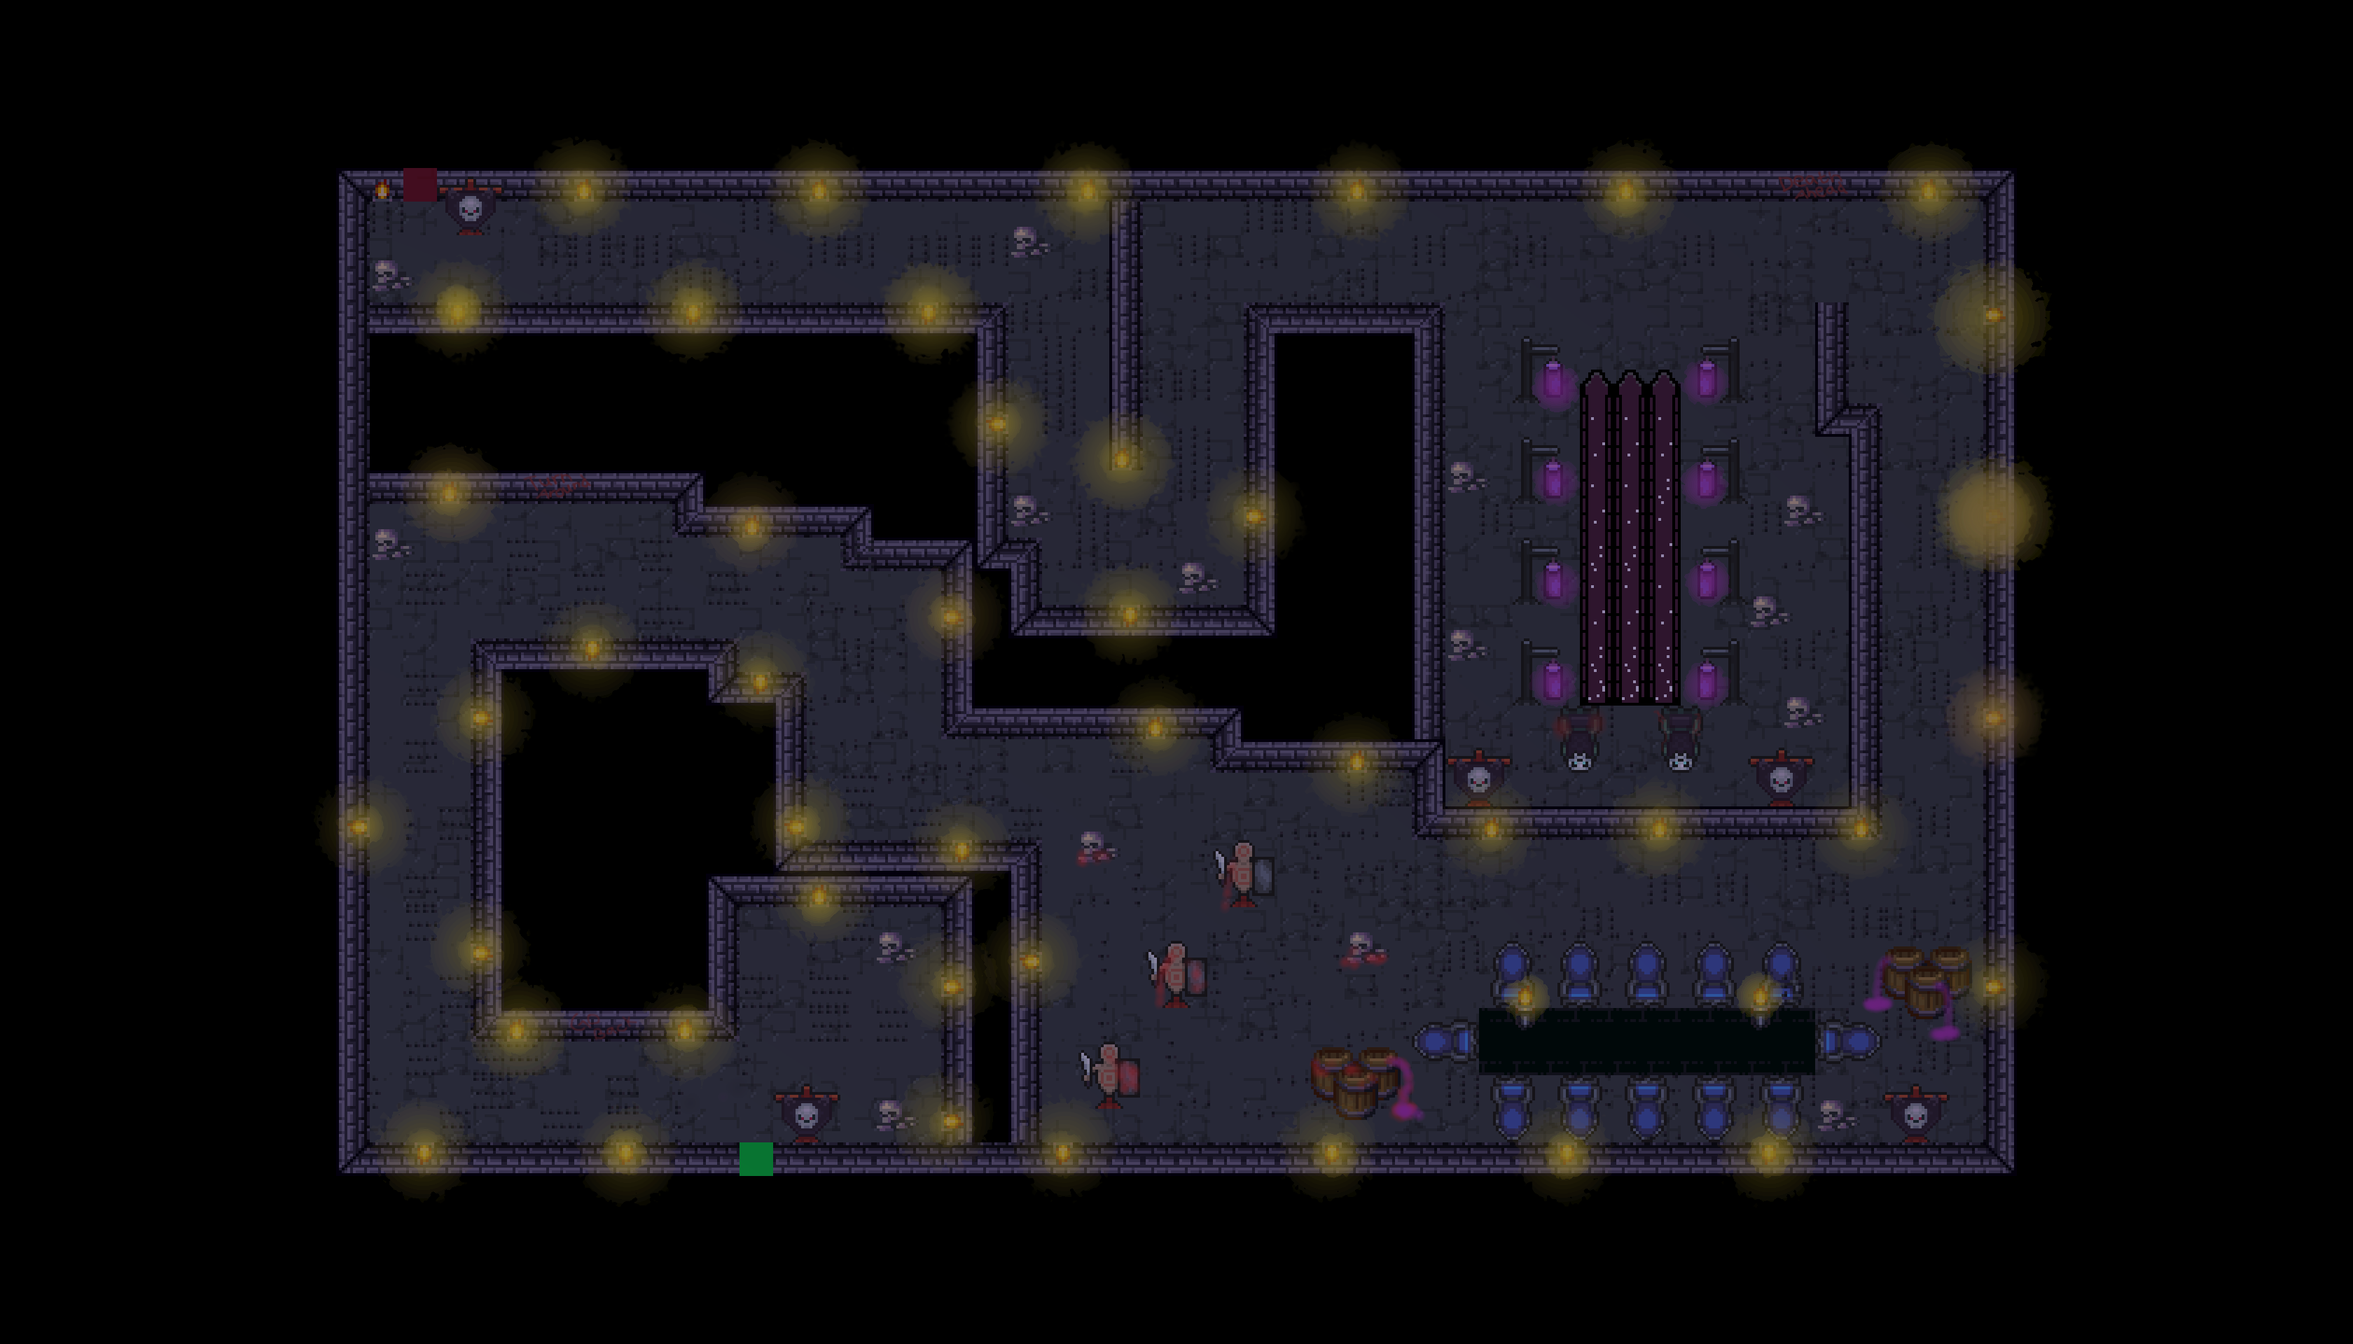
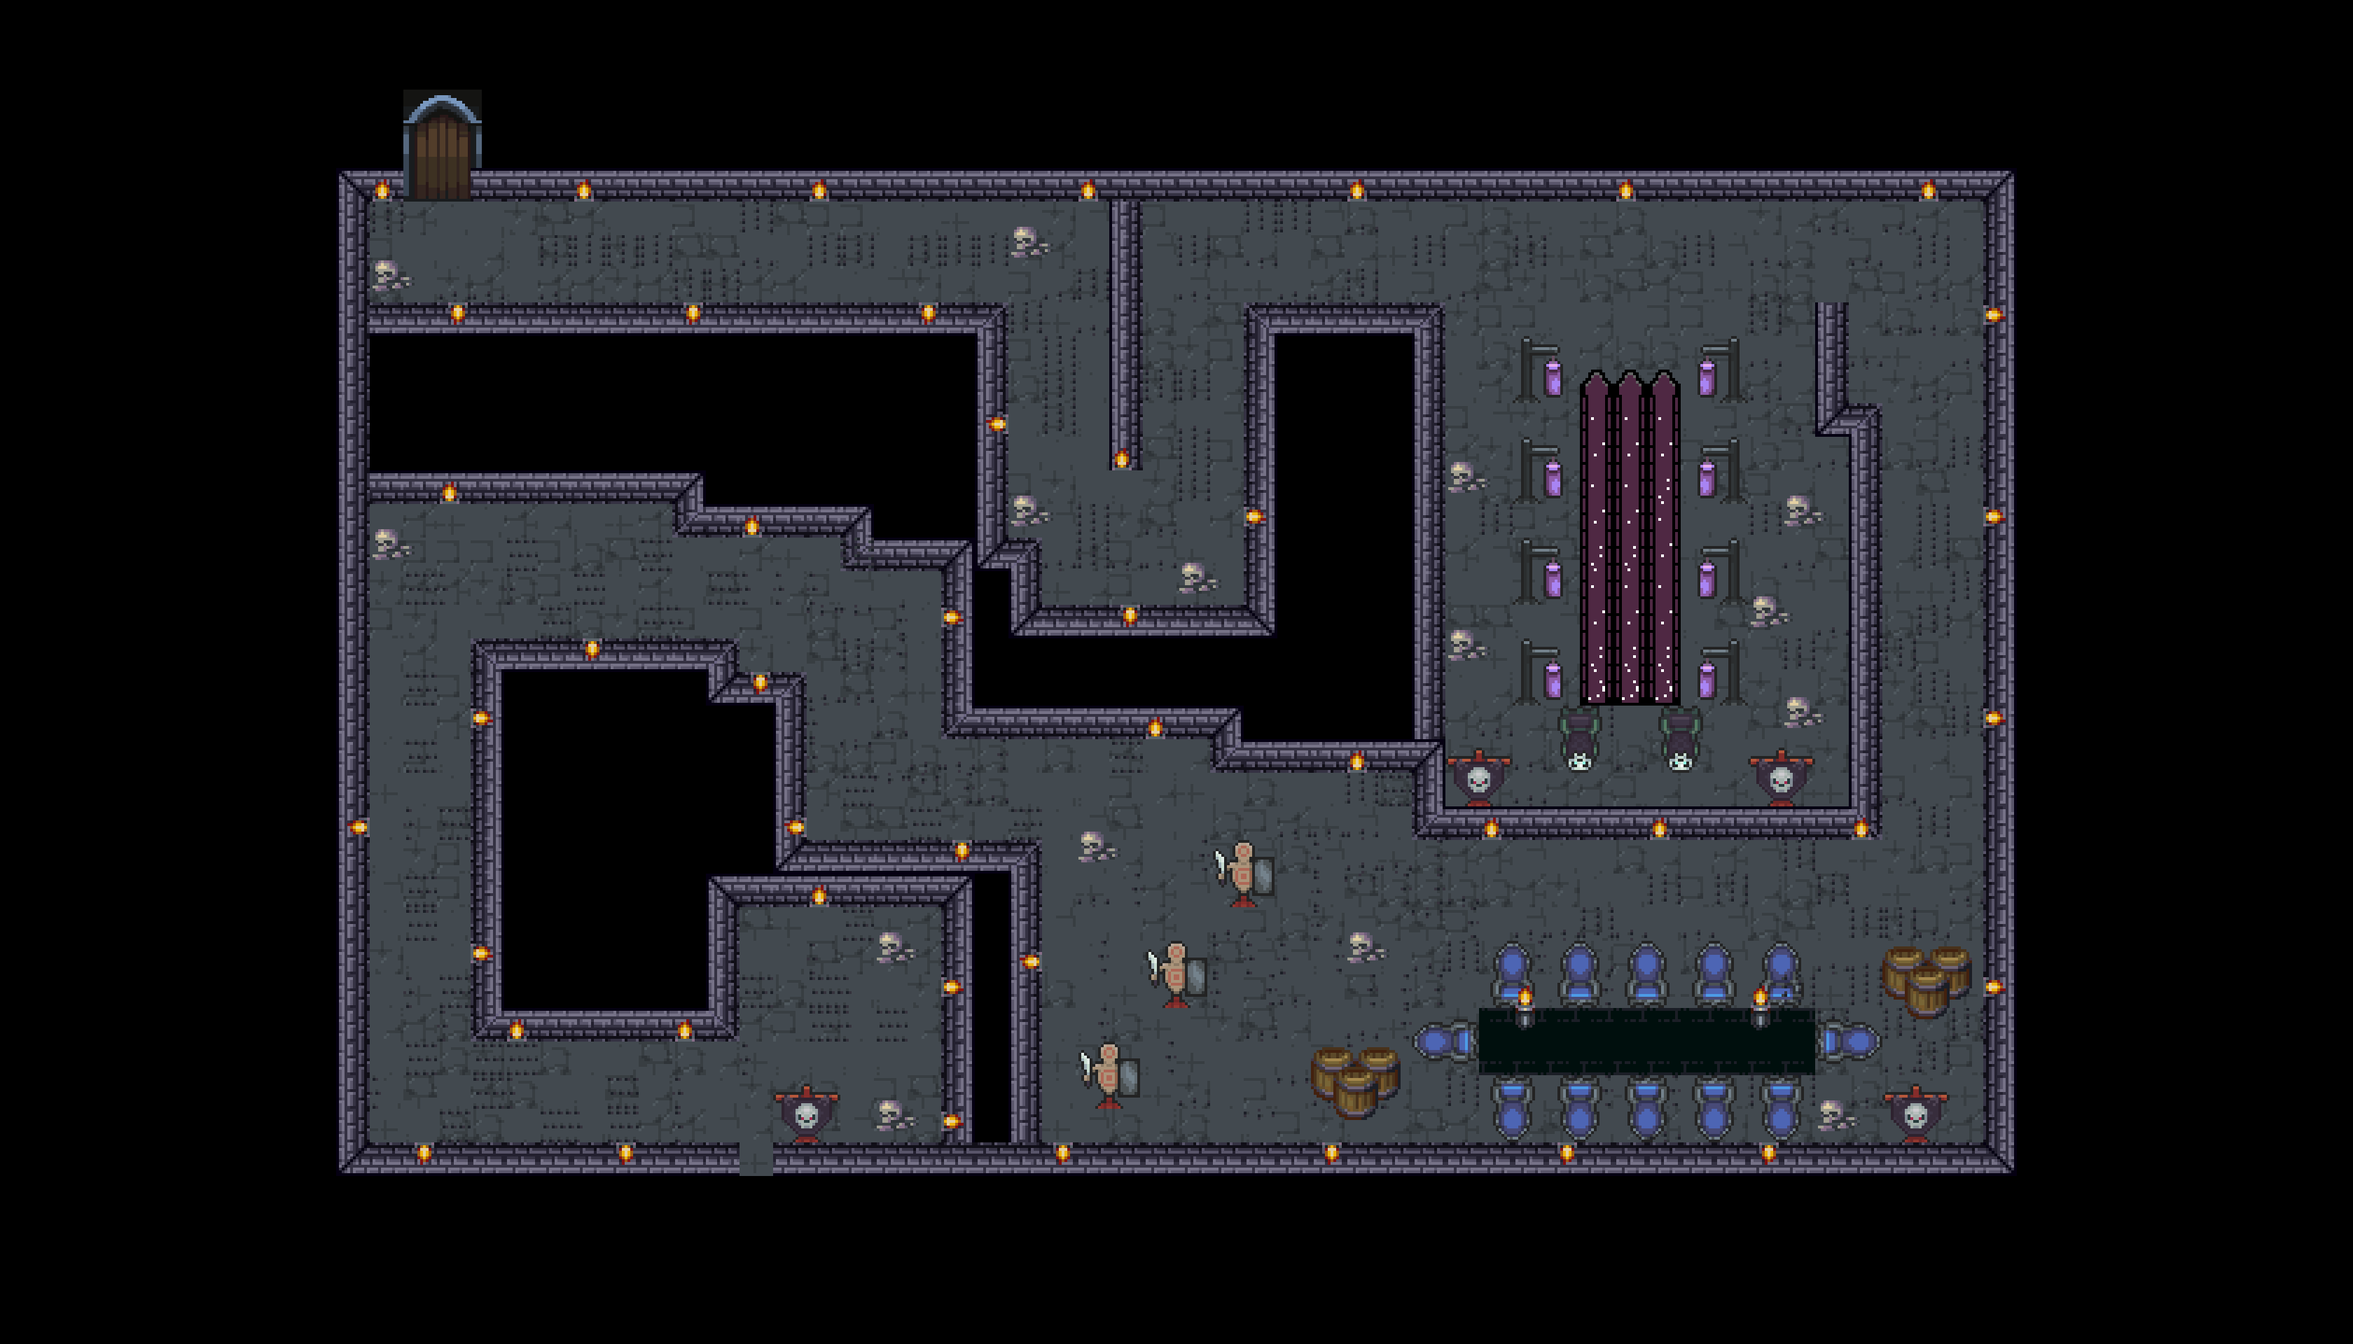
Advance from level to level
Added some lines of code that makes it possible for our character to walk into a door, fade the screen black then fade back again to reveal the new map. Also edited the first map so that there is in fact a door to go through at the end. Added a new js file called "doors" that stores the array of the doors collision block to make the new lines of code work.

diff --git a/data/doors.js b/data/doors.js
@@ -1,0 +1,40 @@
+const doorsData = [0, 0, 0, 0, 0, 0, 0, 0, 0, 0, 0, 0, 0, 0, 0, 0, 0, 0, 0, 0, 0, 0, 0, 0, 0, 0, 0, 0, 0, 0, 0, 0, 0, 0, 0, 0, 0, 0, 0, 0, 0, 0, 0, 0, 0, 0, 0, 0, 0, 0, 0, 0, 0, 0, 0, 0, 0, 0, 0, 0, 0, 0, 0, 0, 0, 0, 0, 0, 0, 0,
+   0, 0, 0, 0, 0, 0, 0, 0, 0, 0, 0, 0, 0, 0, 0, 0, 0, 0, 0, 0, 0, 0, 0, 0, 0, 0, 0, 0, 0, 0, 0, 0, 0, 0, 0, 0, 0, 0, 0, 0, 0, 0, 0, 0, 0, 0, 0, 0, 0, 0, 0, 0, 0, 0, 0, 0, 0, 0, 0, 0, 0, 0, 0, 0, 0, 0, 0, 0, 0, 0,
+   0, 0, 0, 0, 0, 0, 0, 0, 0, 0, 0, 0, 0, 0, 0, 0, 0, 0, 0, 0, 0, 0, 0, 0, 0, 0, 0, 0, 0, 0, 0, 0, 0, 0, 0, 0, 0, 0, 0, 0, 0, 0, 0, 0, 0, 0, 0, 0, 0, 0, 0, 0, 0, 0, 0, 0, 0, 0, 0, 0, 0, 0, 0, 0, 0, 0, 0, 0, 0, 0,
+   0, 0, 0, 0, 0, 0, 0, 0, 0, 0, 0, 0, 1, 1, 0, 0, 0, 0, 0, 0, 0, 0, 0, 0, 0, 0, 0, 0, 0, 0, 0, 0, 0, 0, 0, 0, 0, 0, 0, 0, 0, 0, 0, 0, 0, 0, 0, 0, 0, 0, 0, 0, 0, 0, 0, 0, 0, 0, 0, 0, 0, 0, 0, 0, 0, 0, 0, 0, 0, 0,
+   0, 0, 0, 0, 0, 0, 0, 0, 0, 0, 0, 0, 1, 1, 0, 0, 0, 0, 0, 0, 0, 0, 0, 0, 0, 0, 0, 0, 0, 0, 0, 0, 0, 0, 0, 0, 0, 0, 0, 0, 0, 0, 0, 0, 0, 0, 0, 0, 0, 0, 0, 0, 0, 0, 0, 0, 0, 0, 0, 0, 0, 0, 0, 0, 0, 0, 0, 0, 0, 0,
+   0, 0, 0, 0, 0, 0, 0, 0, 0, 0, 0, 0, 0, 0, 0, 0, 0, 0, 0, 0, 0, 0, 0, 0, 0, 0, 0, 0, 0, 0, 0, 0, 0, 0, 0, 0, 0, 0, 0, 0, 0, 0, 0, 0, 0, 0, 0, 0, 0, 0, 0, 0, 0, 0, 0, 0, 0, 0, 0, 0, 0, 0, 0, 0, 0, 0, 0, 0, 0, 0,
+   0, 0, 0, 0, 0, 0, 0, 0, 0, 0, 0, 0, 0, 0, 0, 0, 0, 0, 0, 0, 0, 0, 0, 0, 0, 0, 0, 0, 0, 0, 0, 0, 0, 0, 0, 0, 0, 0, 0, 0, 0, 0, 0, 0, 0, 0, 0, 0, 0, 0, 0, 0, 0, 0, 0, 0, 0, 0, 0, 0, 0, 0, 0, 0, 0, 0, 0, 0, 0, 0,
+   0, 0, 0, 0, 0, 0, 0, 0, 0, 0, 0, 0, 0, 0, 0, 0, 0, 0, 0, 0, 0, 0, 0, 0, 0, 0, 0, 0, 0, 0, 0, 0, 0, 0, 0, 0, 0, 0, 0, 0, 0, 0, 0, 0, 0, 0, 0, 0, 0, 0, 0, 0, 0, 0, 0, 0, 0, 0, 0, 0, 0, 0, 0, 0, 0, 0, 0, 0, 0, 0,
+   0, 0, 0, 0, 0, 0, 0, 0, 0, 0, 0, 0, 0, 0, 0, 0, 0, 0, 0, 0, 0, 0, 0, 0, 0, 0, 0, 0, 0, 0, 0, 0, 0, 0, 0, 0, 0, 0, 0, 0, 0, 0, 0, 0, 0, 0, 0, 0, 0, 0, 0, 0, 0, 0, 0, 0, 0, 0, 0, 0, 0, 0, 0, 0, 0, 0, 0, 0, 0, 0,
+   0, 0, 0, 0, 0, 0, 0, 0, 0, 0, 0, 0, 0, 0, 0, 0, 0, 0, 0, 0, 0, 0, 0, 0, 0, 0, 0, 0, 0, 0, 0, 0, 0, 0, 0, 0, 0, 0, 0, 0, 0, 0, 0, 0, 0, 0, 0, 0, 0, 0, 0, 0, 0, 0, 0, 0, 0, 0, 0, 0, 0, 0, 0, 0, 0, 0, 0, 0, 0, 0,
+   0, 0, 0, 0, 0, 0, 0, 0, 0, 0, 0, 0, 0, 0, 0, 0, 0, 0, 0, 0, 0, 0, 0, 0, 0, 0, 0, 0, 0, 0, 0, 0, 0, 0, 0, 0, 0, 0, 0, 0, 0, 0, 0, 0, 0, 0, 0, 0, 0, 0, 0, 0, 0, 0, 0, 0, 0, 0, 0, 0, 0, 0, 0, 0, 0, 0, 0, 0, 0, 0,
+   0, 0, 0, 0, 0, 0, 0, 0, 0, 0, 0, 0, 0, 0, 0, 0, 0, 0, 0, 0, 0, 0, 0, 0, 0, 0, 0, 0, 0, 0, 0, 0, 0, 0, 0, 0, 0, 0, 0, 0, 0, 0, 0, 0, 0, 0, 0, 0, 0, 0, 0, 0, 0, 0, 0, 0, 0, 0, 0, 0, 0, 0, 0, 0, 0, 0, 0, 0, 0, 0,
+   0, 0, 0, 0, 0, 0, 0, 0, 0, 0, 0, 0, 0, 0, 0, 0, 0, 0, 0, 0, 0, 0, 0, 0, 0, 0, 0, 0, 0, 0, 0, 0, 0, 0, 0, 0, 0, 0, 0, 0, 0, 0, 0, 0, 0, 0, 0, 0, 0, 0, 0, 0, 0, 0, 0, 0, 0, 0, 0, 0, 0, 0, 0, 0, 0, 0, 0, 0, 0, 0,
+   0, 0, 0, 0, 0, 0, 0, 0, 0, 0, 0, 0, 0, 0, 0, 0, 0, 0, 0, 0, 0, 0, 0, 0, 0, 0, 0, 0, 0, 0, 0, 0, 0, 0, 0, 0, 0, 0, 0, 0, 0, 0, 0, 0, 0, 0, 0, 0, 0, 0, 0, 0, 0, 0, 0, 0, 0, 0, 0, 0, 0, 0, 0, 0, 0, 0, 0, 0, 0, 0,
+   0, 0, 0, 0, 0, 0, 0, 0, 0, 0, 0, 0, 0, 0, 0, 0, 0, 0, 0, 0, 0, 0, 0, 0, 0, 0, 0, 0, 0, 0, 0, 0, 0, 0, 0, 0, 0, 0, 0, 0, 0, 0, 0, 0, 0, 0, 0, 0, 0, 0, 0, 0, 0, 0, 0, 0, 0, 0, 0, 0, 0, 0, 0, 0, 0, 0, 0, 0, 0, 0,
+   0, 0, 0, 0, 0, 0, 0, 0, 0, 0, 0, 0, 0, 0, 0, 0, 0, 0, 0, 0, 0, 0, 0, 0, 0, 0, 0, 0, 0, 0, 0, 0, 0, 0, 0, 0, 0, 0, 0, 0, 0, 0, 0, 0, 0, 0, 0, 0, 0, 0, 0, 0, 0, 0, 0, 0, 0, 0, 0, 0, 0, 0, 0, 0, 0, 0, 0, 0, 0, 0,
+   0, 0, 0, 0, 0, 0, 0, 0, 0, 0, 0, 0, 0, 0, 0, 0, 0, 0, 0, 0, 0, 0, 0, 0, 0, 0, 0, 0, 0, 0, 0, 0, 0, 0, 0, 0, 0, 0, 0, 0, 0, 0, 0, 0, 0, 0, 0, 0, 0, 0, 0, 0, 0, 0, 0, 0, 0, 0, 0, 0, 0, 0, 0, 0, 0, 0, 0, 0, 0, 0,
+   0, 0, 0, 0, 0, 0, 0, 0, 0, 0, 0, 0, 0, 0, 0, 0, 0, 0, 0, 0, 0, 0, 0, 0, 0, 0, 0, 0, 0, 0, 0, 0, 0, 0, 0, 0, 0, 0, 0, 0, 0, 0, 0, 0, 0, 0, 0, 0, 0, 0, 0, 0, 0, 0, 0, 0, 0, 0, 0, 0, 0, 0, 0, 0, 0, 0, 0, 0, 0, 0,
+   0, 0, 0, 0, 0, 0, 0, 0, 0, 0, 0, 0, 0, 0, 0, 0, 0, 0, 0, 0, 0, 0, 0, 0, 0, 0, 0, 0, 0, 0, 0, 0, 0, 0, 0, 0, 0, 0, 0, 0, 0, 0, 0, 0, 0, 0, 0, 0, 0, 0, 0, 0, 0, 0, 0, 0, 0, 0, 0, 0, 0, 0, 0, 0, 0, 0, 0, 0, 0, 0,
+   0, 0, 0, 0, 0, 0, 0, 0, 0, 0, 0, 0, 0, 0, 0, 0, 0, 0, 0, 0, 0, 0, 0, 0, 0, 0, 0, 0, 0, 0, 0, 0, 0, 0, 0, 0, 0, 0, 0, 0, 0, 0, 0, 0, 0, 0, 0, 0, 0, 0, 0, 0, 0, 0, 0, 0, 0, 0, 0, 0, 0, 0, 0, 0, 0, 0, 0, 0, 0, 0,
+   0, 0, 0, 0, 0, 0, 0, 0, 0, 0, 0, 0, 0, 0, 0, 0, 0, 0, 0, 0, 0, 0, 0, 0, 0, 0, 0, 0, 0, 0, 0, 0, 0, 0, 0, 0, 0, 0, 0, 0, 0, 0, 0, 0, 0, 0, 0, 0, 0, 0, 0, 0, 0, 0, 0, 0, 0, 0, 0, 0, 0, 0, 0, 0, 0, 0, 0, 0, 0, 0,
+   0, 0, 0, 0, 0, 0, 0, 0, 0, 0, 0, 0, 0, 0, 0, 0, 0, 0, 0, 0, 0, 0, 0, 0, 0, 0, 0, 0, 0, 0, 0, 0, 0, 0, 0, 0, 0, 0, 0, 0, 0, 0, 0, 0, 0, 0, 0, 0, 0, 0, 0, 0, 0, 0, 0, 0, 0, 0, 0, 0, 0, 0, 0, 0, 0, 0, 0, 0, 0, 0,
+   0, 0, 0, 0, 0, 0, 0, 0, 0, 0, 0, 0, 0, 0, 0, 0, 0, 0, 0, 0, 0, 0, 0, 0, 0, 0, 0, 0, 0, 0, 0, 0, 0, 0, 0, 0, 0, 0, 0, 0, 0, 0, 0, 0, 0, 0, 0, 0, 0, 0, 0, 0, 0, 0, 0, 0, 0, 0, 0, 0, 0, 0, 0, 0, 0, 0, 0, 0, 0, 0,
+   0, 0, 0, 0, 0, 0, 0, 0, 0, 0, 0, 0, 0, 0, 0, 0, 0, 0, 0, 0, 0, 0, 0, 0, 0, 0, 0, 0, 0, 0, 0, 0, 0, 0, 0, 0, 0, 0, 0, 0, 0, 0, 0, 0, 0, 0, 0, 0, 0, 0, 0, 0, 0, 0, 0, 0, 0, 0, 0, 0, 0, 0, 0, 0, 0, 0, 0, 0, 0, 0,
+   0, 0, 0, 0, 0, 0, 0, 0, 0, 0, 0, 0, 0, 0, 0, 0, 0, 0, 0, 0, 0, 0, 0, 0, 0, 0, 0, 0, 0, 0, 0, 0, 0, 0, 0, 0, 0, 0, 0, 0, 0, 0, 0, 0, 0, 0, 0, 0, 0, 0, 0, 0, 0, 0, 0, 0, 0, 0, 0, 0, 0, 0, 0, 0, 0, 0, 0, 0, 0, 0,
+   0, 0, 0, 0, 0, 0, 0, 0, 0, 0, 0, 0, 0, 0, 0, 0, 0, 0, 0, 0, 0, 0, 0, 0, 0, 0, 0, 0, 0, 0, 0, 0, 0, 0, 0, 0, 0, 0, 0, 0, 0, 0, 0, 0, 0, 0, 0, 0, 0, 0, 0, 0, 0, 0, 0, 0, 0, 0, 0, 0, 0, 0, 0, 0, 0, 0, 0, 0, 0, 0,
+   0, 0, 0, 0, 0, 0, 0, 0, 0, 0, 0, 0, 0, 0, 0, 0, 0, 0, 0, 0, 0, 0, 0, 0, 0, 0, 0, 0, 0, 0, 0, 0, 0, 0, 0, 0, 0, 0, 0, 0, 0, 0, 0, 0, 0, 0, 0, 0, 0, 0, 0, 0, 0, 0, 0, 0, 0, 0, 0, 0, 0, 0, 0, 0, 0, 0, 0, 0, 0, 0,
+   0, 0, 0, 0, 0, 0, 0, 0, 0, 0, 0, 0, 0, 0, 0, 0, 0, 0, 0, 0, 0, 0, 0, 0, 0, 0, 0, 0, 0, 0, 0, 0, 0, 0, 0, 0, 0, 0, 0, 0, 0, 0, 0, 0, 0, 0, 0, 0, 0, 0, 0, 0, 0, 0, 0, 0, 0, 0, 0, 0, 0, 0, 0, 0, 0, 0, 0, 0, 0, 0,
+   0, 0, 0, 0, 0, 0, 0, 0, 0, 0, 0, 0, 0, 0, 0, 0, 0, 0, 0, 0, 0, 0, 0, 0, 0, 0, 0, 0, 0, 0, 0, 0, 0, 0, 0, 0, 0, 0, 0, 0, 0, 0, 0, 0, 0, 0, 0, 0, 0, 0, 0, 0, 0, 0, 0, 0, 0, 0, 0, 0, 0, 0, 0, 0, 0, 0, 0, 0, 0, 0,
+   0, 0, 0, 0, 0, 0, 0, 0, 0, 0, 0, 0, 0, 0, 0, 0, 0, 0, 0, 0, 0, 0, 0, 0, 0, 0, 0, 0, 0, 0, 0, 0, 0, 0, 0, 0, 0, 0, 0, 0, 0, 0, 0, 0, 0, 0, 0, 0, 0, 0, 0, 0, 0, 0, 0, 0, 0, 0, 0, 0, 0, 0, 0, 0, 0, 0, 0, 0, 0, 0,
+   0, 0, 0, 0, 0, 0, 0, 0, 0, 0, 0, 0, 0, 0, 0, 0, 0, 0, 0, 0, 0, 0, 0, 0, 0, 0, 0, 0, 0, 0, 0, 0, 0, 0, 0, 0, 0, 0, 0, 0, 0, 0, 0, 0, 0, 0, 0, 0, 0, 0, 0, 0, 0, 0, 0, 0, 0, 0, 0, 0, 0, 0, 0, 0, 0, 0, 0, 0, 0, 0,
+   0, 0, 0, 0, 0, 0, 0, 0, 0, 0, 0, 0, 0, 0, 0, 0, 0, 0, 0, 0, 0, 0, 0, 0, 0, 0, 0, 0, 0, 0, 0, 0, 0, 0, 0, 0, 0, 0, 0, 0, 0, 0, 0, 0, 0, 0, 0, 0, 0, 0, 0, 0, 0, 0, 0, 0, 0, 0, 0, 0, 0, 0, 0, 0, 0, 0, 0, 0, 0, 0,
+   0, 0, 0, 0, 0, 0, 0, 0, 0, 0, 0, 0, 0, 0, 0, 0, 0, 0, 0, 0, 0, 0, 0, 0, 0, 0, 0, 0, 0, 0, 0, 0, 0, 0, 0, 0, 0, 0, 0, 0, 0, 0, 0, 0, 0, 0, 0, 0, 0, 0, 0, 0, 0, 0, 0, 0, 0, 0, 0, 0, 0, 0, 0, 0, 0, 0, 0, 0, 0, 0,
+   0, 0, 0, 0, 0, 0, 0, 0, 0, 0, 0, 0, 0, 0, 0, 0, 0, 0, 0, 0, 0, 0, 0, 0, 0, 0, 0, 0, 0, 0, 0, 0, 0, 0, 0, 0, 0, 0, 0, 0, 0, 0, 0, 0, 0, 0, 0, 0, 0, 0, 0, 0, 0, 0, 0, 0, 0, 0, 0, 0, 0, 0, 0, 0, 0, 0, 0, 0, 0, 0,
+   0, 0, 0, 0, 0, 0, 0, 0, 0, 0, 0, 0, 0, 0, 0, 0, 0, 0, 0, 0, 0, 0, 0, 0, 0, 0, 0, 0, 0, 0, 0, 0, 0, 0, 0, 0, 0, 0, 0, 0, 0, 0, 0, 0, 0, 0, 0, 0, 0, 0, 0, 0, 0, 0, 0, 0, 0, 0, 0, 0, 0, 0, 0, 0, 0, 0, 0, 0, 0, 0,
+   0, 0, 0, 0, 0, 0, 0, 0, 0, 0, 0, 0, 0, 0, 0, 0, 0, 0, 0, 0, 0, 0, 0, 0, 0, 0, 0, 0, 0, 0, 0, 0, 0, 0, 0, 0, 0, 0, 0, 0, 0, 0, 0, 0, 0, 0, 0, 0, 0, 0, 0, 0, 0, 0, 0, 0, 0, 0, 0, 0, 0, 0, 0, 0, 0, 0, 0, 0, 0, 0,
+   0, 0, 0, 0, 0, 0, 0, 0, 0, 0, 0, 0, 0, 0, 0, 0, 0, 0, 0, 0, 0, 0, 0, 0, 0, 0, 0, 0, 0, 0, 0, 0, 0, 0, 0, 0, 0, 0, 0, 0, 0, 0, 0, 0, 0, 0, 0, 0, 0, 0, 0, 0, 0, 0, 0, 0, 0, 0, 0, 0, 0, 0, 0, 0, 0, 0, 0, 0, 0, 0,
+   0, 0, 0, 0, 0, 0, 0, 0, 0, 0, 0, 0, 0, 0, 0, 0, 0, 0, 0, 0, 0, 0, 0, 0, 0, 0, 0, 0, 0, 0, 0, 0, 0, 0, 0, 0, 0, 0, 0, 0, 0, 0, 0, 0, 0, 0, 0, 0, 0, 0, 0, 0, 0, 0, 0, 0, 0, 0, 0, 0, 0, 0, 0, 0, 0, 0, 0, 0, 0, 0,
+   0, 0, 0, 0, 0, 0, 0, 0, 0, 0, 0, 0, 0, 0, 0, 0, 0, 0, 0, 0, 0, 0, 0, 0, 0, 0, 0, 0, 0, 0, 0, 0, 0, 0, 0, 0, 0, 0, 0, 0, 0, 0, 0, 0, 0, 0, 0, 0, 0, 0, 0, 0, 0, 0, 0, 0, 0, 0, 0, 0, 0, 0, 0, 0, 0, 0, 0, 0, 0, 0,
+   0, 0, 0, 0, 0, 0, 0, 0, 0, 0, 0, 0, 0, 0, 0, 0, 0, 0, 0, 0, 0, 0, 0, 0, 0, 0, 0, 0, 0, 0, 0, 0, 0, 0, 0, 0, 0, 0, 0, 0, 0, 0, 0, 0, 0, 0, 0, 0, 0, 0, 0, 0, 0, 0, 0, 0, 0, 0, 0, 0, 0, 0, 0, 0, 0, 0, 0, 0, 0, 0]

diff --git a/index.js b/index.js
@@ -12,16 +12,37 @@ for (let i = 0; i < collisions.length; i+= 70) {
     collisionsMap.push(collisions.slice(i, 70 + i))
 }
 
+//const that looks for the collisionblock in "doors.js".
+const doorsmap = []
+for (let i = 0; i < doorsData.length; i+= 70) {
+    doorsmap.push(doorsData.slice(i, 70 + i))
+}
+
+
 const boundaries = []
 const offset = {
     x: -600,
     y: -1250
 }
 
+// Here the program is looking for a "1", and if the player collides with a "1" from the doors.js then the character should advance to the next stage.
 collisionsMap.forEach((row, i) => {
     row.forEach((symbol, j) => {
         if(symbol === 1)
         boundaries.push(
+            new Boundary({ 
+            x: j * Boundary.width + offset.x,
+            y: i * Boundary.height + offset.y,
+        }))
+    })
+})
+
+const doors = []
+
+doorsmap.forEach((row, i) => {
+    row.forEach((symbol, j) => {
+        if(symbol === 1)
+        doors.push(
             new Boundary({ 
             x: j * Boundary.width + offset.x,
             y: i * Boundary.height + offset.y,
@@ -91,9 +112,10 @@ const keys = {
     }
 }
 
+
 //Konst som gör känner efter ifall en rektangel (karaktären) och rektangel2 (kollisionsblocken) stöter på varandra
 //så ska inte spelaren fastna i blocket, utan den ska enbart stanna vid kanten så man kan flytta sig ifrån igen.
-const movables = [background, ...boundaries ]
+const movables = [background, ...boundaries, ...doors]
 
 function rectangularCollision({rectangle1, rectangle2}) {
     return(
@@ -102,18 +124,60 @@ function rectangularCollision({rectangle1, rectangle2}) {
         rectangle1.position.y <= rectangle2.position.y + rectangle2.height &&
         rectangle1.position.y + rectangle1.height >= rectangle2.position.y)
 }
+
+const dooropen = {
+    initiated: false
+}
 //funktion som kör alla commando inom animate.
 function animate(){
-    window.requestAnimationFrame(animate)
+    const animationId = window.requestAnimationFrame(animate)
     background.draw() //Hämtar all information om vår bakgrund och kör den igenom "draw" funktionen, vilket ritar vår bakgrund.
     boundaries.forEach(boundary => {
         boundary.draw()
     })
+    doors.forEach((doors) => {
+        doors.draw()
+    })
     player.draw()
 
+    if (dooropen.initiated) return
+
+    //if sats som kollar ifall vår gubbe går in i en dörr. Och om det händer så kommer gubben till nästa nivå 
+    //med hjälp av en overlay som gör skärmen svart sen fade:ar ut i level 2 istället för level 1.
+    if (keys.w.pressed || keys.a.pressed || keys.s.pressed || keys.d.pressed) {
+        for (let i = 0; i < doors.length;i++){
+            const door = doors[i] 
+            if (rectangularCollision({
+                rectangle1: player,
+                rectangle2: door 
+            })
+            ) {
+                console.log('level complete')
+                window.cancelAnimationFrame(animationId)
+                dooropen.initiated = true
+                gsap.to('#overlappingDiv', {
+                    opacity: 1,
+                    duration: 2,
+                    onComplete(){
+                        gsap.to('#overlappingDiv', {
+                            opacity: 1,
+                            duration: 1,
+                            onComplete(){
+                                animateNewLevel()
+                                gsap.to('#overlappingDiv', {
+                                    opacity: 0,
+                                    duration: 1,
+                                })
+                            }
+                        })
+                    }
+                })
+                break
+            }
+        }
+    }
     //If sats som gör att vår bakgrund rör sig 1.5 pixlar baserat på vilken knapp vi trycker.
     //If-sats som också gör så att gubben stannar ifall den krockar med något av våra kollisionsblock för A (vänster).
-    //Denna IF-satsen fungerar endas för W så kommer att kopiera samma kod 4 gånger för A,S,D också.
     let moving = true
     player.moving = false
     if (keys.w.pressed) {
@@ -218,6 +282,22 @@ function animate(){
 }
 animate()
 
+//Här skapas level 2 som man kommer till när man går igenom dörren.
+const Level2 = new Image()
+Level2.src = './img/Level2.png'
+const newLevel = new Sprite({
+    position: {
+        x: 0, 
+        y: 0
+    },
+    image: Level2
+})
+//funktion som gör att vi animerar ut den nya leveln
+function animateNewLevel() {
+    window.requestAnimationFrame(animateNewLevel)
+    newLevel.draw()
+}
+
 // funktion som lyssnar efter vilka knappar som trycks ner, detta används för att kunna flytta spelaren.
 // När knappen trycks ner så ändras det från "false" till "true" och då rör sig spelaren.
 window.addEventListener('keydown', (e) => {
@@ -240,7 +320,6 @@ window.addEventListener('keydown', (e) => {
     }
 
 })
-
 
 //funktion som gör att när man släpper knappen så slutar spelaren att röra sig.
 //sätter funktionen i "false" igen.

diff --git a/index.html b/index.html
@@ -8,7 +8,14 @@
     <title>BlazeAndBlast</title>
 </head>
 <body>
-<canvas></canvas>
+<div style="display: inline-block; position: relative;">
+    <div 
+    id="overlappingDiv"
+    style="background-color: black; position: absolute; top: 0; right: 0; bottom: 0; left: 0; opacity: 0; pointer-events: none;"></div>
+    <canvas></canvas>
+</div>
+<script src="https://cdnjs.cloudflare.com/ajax/libs/gsap/3.9.1/gsap.min.js" integrity="sha512-H6cPm97FAsgIKmlBA4s774vqoN24V5gSQL4yBTDOY2su2DeXZVhQPxFK4P6GPdnZqM9fg1G3cMv5wD7e6cFLZQ==" crossorigin="anonymous" referrerpolicy="no-referrer"></script>
+<script src="data/doors.js"></script>
 <script src="data/collisions.js"></script>
 <script src="js/classes.js"></script>
 <script src="index.js"></script>

diff --git a/data/collisions.js b/data/collisions.js
@@ -38,3 +38,4 @@ const collisions = [0, 0, 0, 0, 0, 0, 0, 0, 0, 0, 0, 0, 0, 0, 0, 0, 0, 0, 0, 0, 
     0, 0, 0, 0, 0, 0, 0, 0, 0, 0, 0, 0, 0, 0, 0, 0, 0, 0, 0, 0, 0, 0, 0, 0, 0, 0, 0, 0, 0, 0, 0, 0, 0, 0, 0, 0, 0, 0, 0, 0, 0, 0, 0, 0, 0, 0, 0, 0, 0, 0, 0, 0, 0, 0, 0, 0, 0, 0, 0, 0, 0, 0, 0, 0, 0, 0, 0, 0, 0, 0,
     0, 0, 0, 0, 0, 0, 0, 0, 0, 0, 0, 0, 0, 0, 0, 0, 0, 0, 0, 0, 0, 0, 0, 0, 0, 0, 0, 0, 0, 0, 0, 0, 0, 0, 0, 0, 0, 0, 0, 0, 0, 0, 0, 0, 0, 0, 0, 0, 0, 0, 0, 0, 0, 0, 0, 0, 0, 0, 0, 0, 0, 0, 0, 0, 0, 0, 0, 0, 0, 0,
     0, 0, 0, 0, 0, 0, 0, 0, 0, 0, 0, 0, 0, 0, 0, 0, 0, 0, 0, 0, 0, 0, 0, 0, 0, 0, 0, 0, 0, 0, 0, 0, 0, 0, 0, 0, 0, 0, 0, 0, 0, 0, 0, 0, 0, 0, 0, 0, 0, 0, 0, 0, 0, 0, 0, 0, 0, 0, 0, 0, 0, 0, 0, 0, 0, 0, 0, 0, 0, 0]
+
